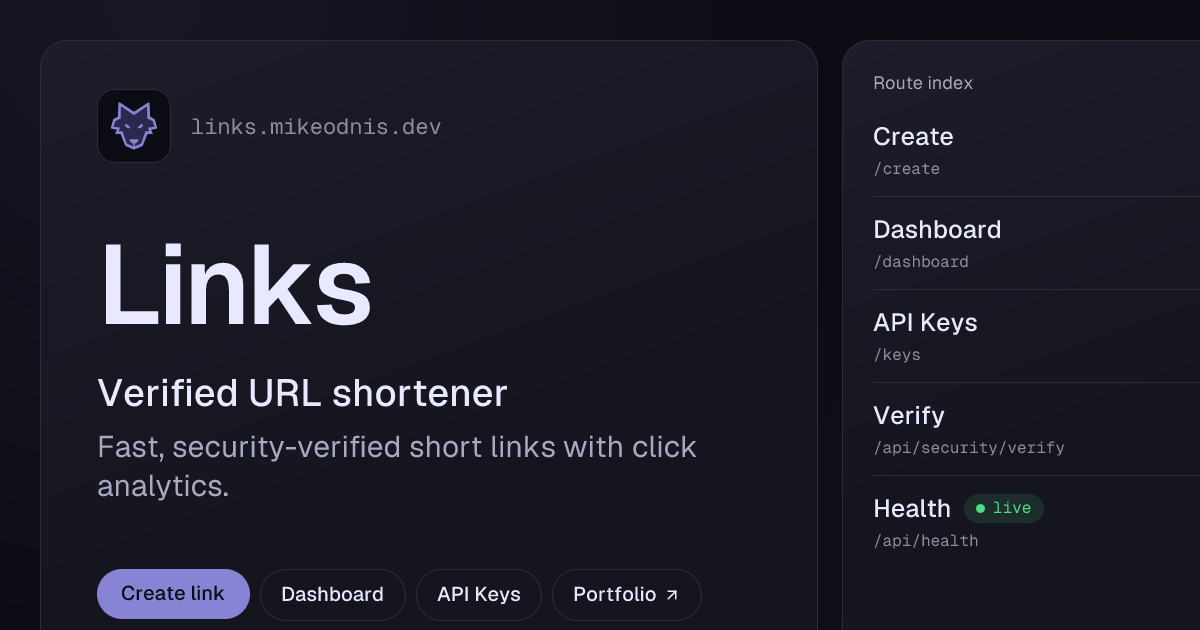
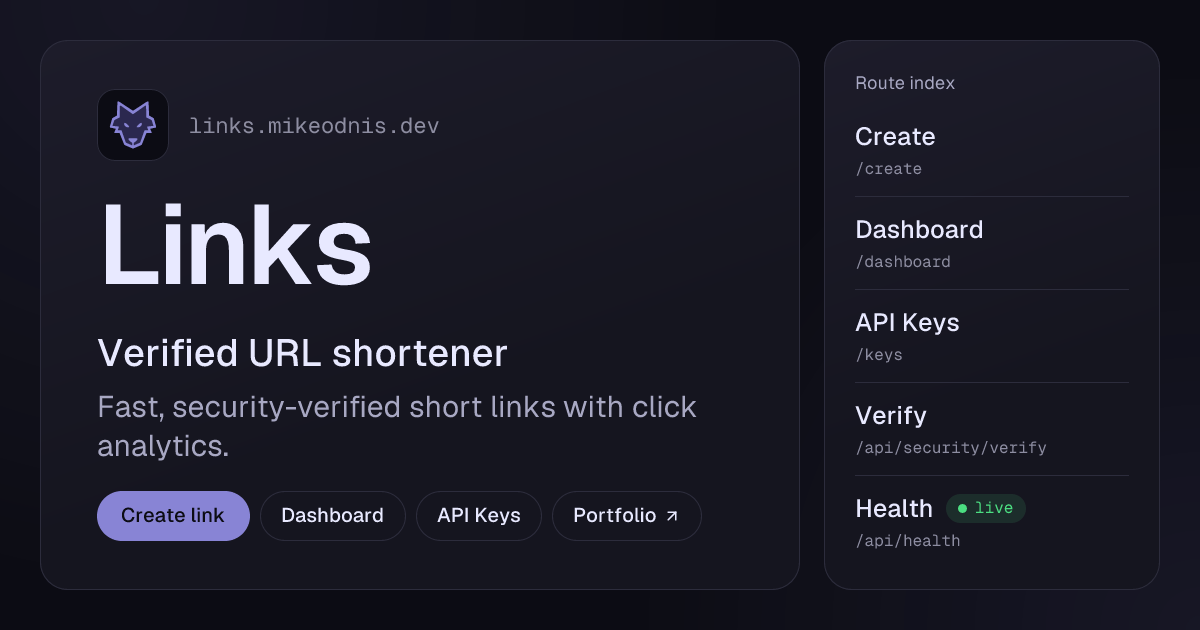
fix(og): enforce boxSizing border-box on Satori OG cards to prevent right/bottom clipping

diff --git a/server/og/og.test.ts b/server/og/og.test.ts
@@ -69,7 +69,12 @@ describe("Dynamic OpenGraph cards & Live Console PWA manifest", () => {
 	it("renders valid 1200x630 PNGs for both SiteCard and dynamic PageCard", async () => {
 		clearOgRenderCache();
 
-		const sitePng = await renderOgPng(createSiteCard());
+		const siteCard = createSiteCard();
+		expect(
+			(siteCard.props.style as Record<string, unknown>).boxSizing,
+		).toBe("border-box");
+
+		const sitePng = await renderOgPng(siteCard);
 		expect(readPngDimensions(sitePng)).toEqual(OG_IMAGE_SIZE);
 		expect(sitePng.byteLength).toBeGreaterThan(5_000);
 

diff --git a/server/og/cards.ts b/server/og/cards.ts
@@ -45,7 +45,10 @@ function div(style: Style, children?: Child | readonly Child[]): SatoriNode {
 	return {
 		type: "div",
 		props: {
-			style,
+			style: {
+				boxSizing: "border-box",
+				...style,
+			},
 			...(filtered !== undefined ? { children: filtered } : {}),
 		},
 	};
